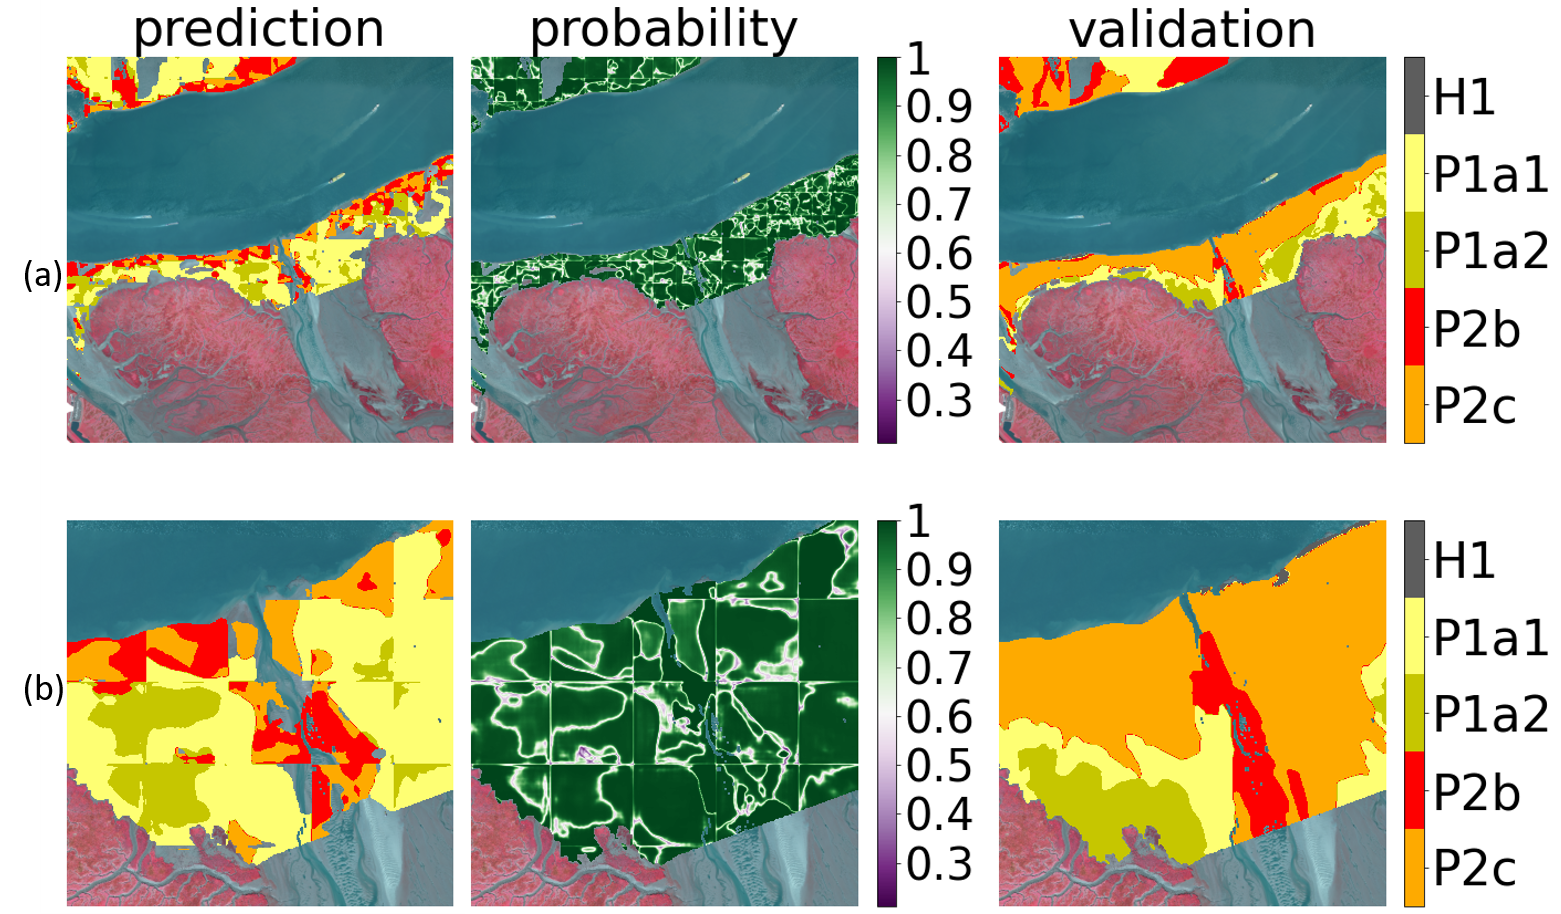
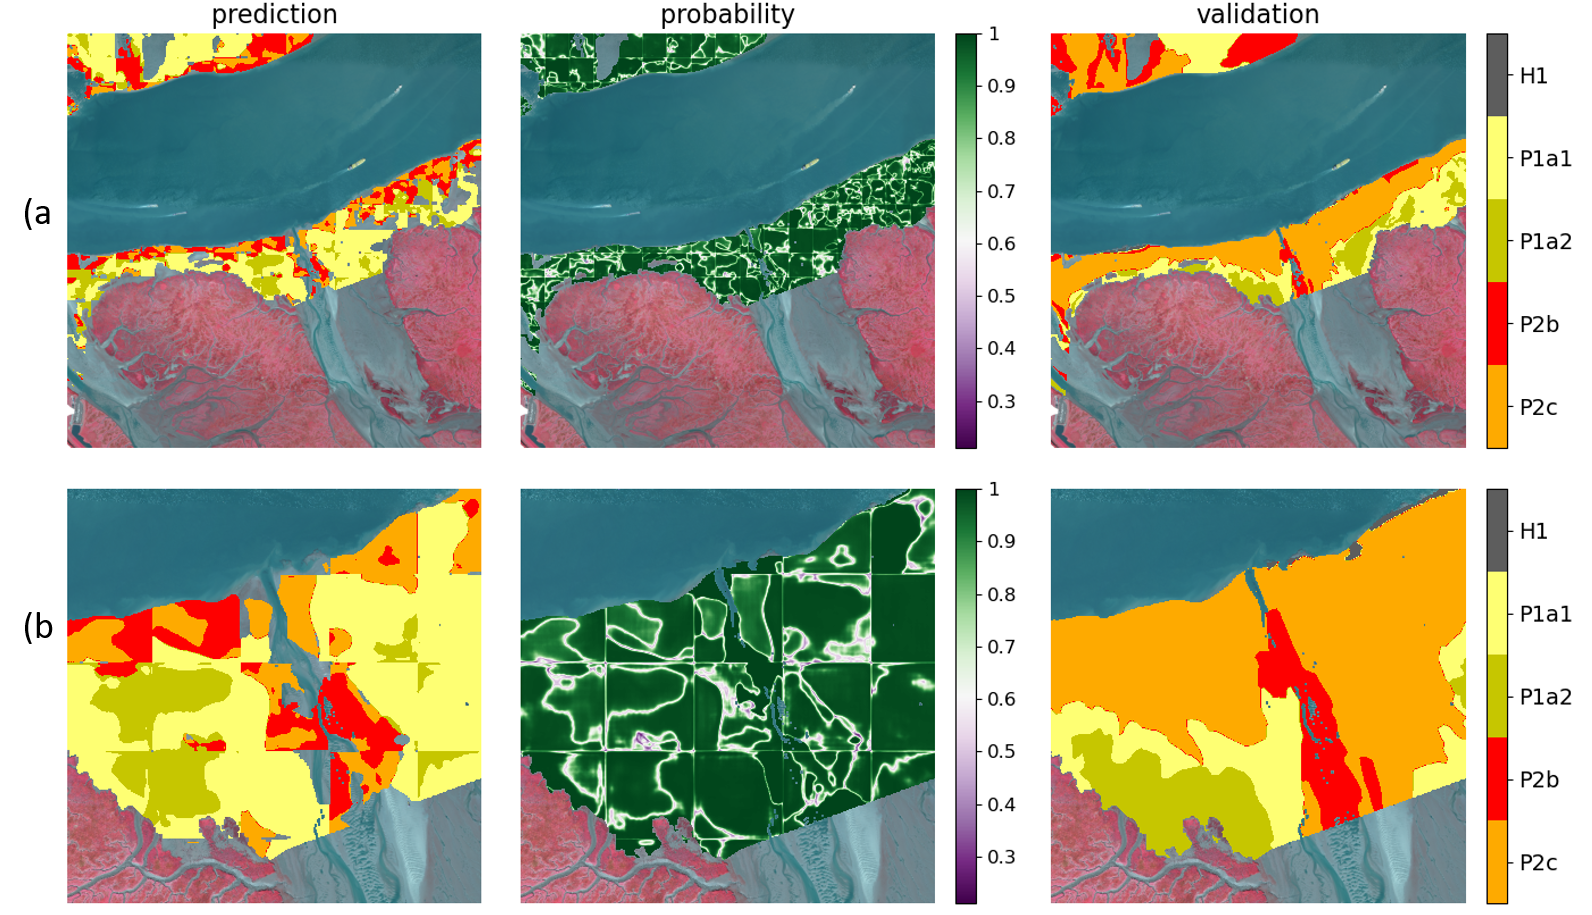
final

diff --git a/isprs.tex b/isprs.tex
@@ -166,7 +166,7 @@ We found no considerable differences in the optimal spatial unit for each class 
 
 The hyperparameters we tuned for XGBoost are learning rate, maximun tree-depth, number of estimators, and the Lasso regularisation term $\alpha$, using 5-fold cross-validation. The modeling process using XGBoost and deep neural networks is implemented in the Python environment (version 3.6). 
 
-\subsection{Method-based on U-net}
+\subsection{Method based on U-net}
 
 The input for the U-net is the aerial imagery, DEM, and derived slope \citep{horn1981hill}, NDVI, and  Brightness layers. The slope was calculated in QGIS3.18 using the same Horn's formula \citep{horn1981hill} as in eCognition, and is expressed in degrees. The NDVI and brightness are calculated in Python. The Brightness is defined as $Brightness =  (NIR+red+green)/3$.
  
@@ -196,7 +196,7 @@ The loss functions we tested are categorical cross-entropy loss, IoU loss \citep
 \subsubsection{Method OBIA-XGB}
 The accuracy metrics of the OBIA-XGB are shown in \cref{xgb_ss,xgb_ssac}. SSAC is used to indicate the performance and SS for indicating how well the smaller objects are classified. According to SSAC, the megaripple class obtained the highest precision, indicating the method OBIA-XGB is already promising in distinguishing it from other P classes and the H1 class. The sandy and silty low dynamic flats are not well separated. 
 
-Comparing \cref{xgb_ss,xgb_ssac}, it is observed that small objects better in the P2b and H1 classes but are less satisfying in other classes. From the spatial prediction maps, We can observe that mis-classification mostly occur as classifying P1a1, P1a2 and P2b as H1, especially along some channel outlets or close to water.
+Comparing \cref{xgb_ss,xgb_ssac}, it is observed that small objects better in the P2b and H1 classes but are less satisfying in other classes. From the spatial prediction maps, We can observe that mis-classification mostly occur as classifying P1a1, P1a2 and P2b as H1, especially along some channel outlets or close to water; and mis-classify P1a1 into P1a2 or p2b. The probability map also shows a high uncertainty (indicated as low probability) in separating between P1a1 and P1a2, as well as H1 and other classes.   
 
 %\subsection{Variable importance}
 %The top-5 most important characteristics (calculated from XGBoost gain) describe spectral properties, the 7th on the texture within the object, and 10th is based on the sub-objects.
@@ -217,9 +217,8 @@ overall accuracy &  46.1 &       &      &      &     \\
 \bottomrule
 \end{tabular}
 
-\caption{Accuracy assessed with the sampling and validation scheme SSAC, on test tiles. Confusion matrix is normalised by the entire area. Precision, recall, and overall accuracy (\%) are calculated using area-weighted accuracy assessment. }
-
-    \label{xgb_ssac}
+\caption{Accuracy assessed with the sampling and validation scheme SSAC, on test tiles. Confusion matrix is normalised by the entire area. Precision, recall, and overall accuracy (\%) are calculated using area-weighted accuracy assessment.}
+\label{xgb_ssac}
 \end{table}
 
 \begin{table}[]
@@ -246,14 +245,14 @@ overall accuracy &  50.8 &       &      &      &      \\
 
  \begin{figure}[!h]
     \centering
-    \includegraphics[width=\linewidth]{figures/prediction_westerscheldt_merged.png}
+    \includegraphics[width=\linewidth]{figures/xgb_prediction_westerscheldt.png}
     \caption{Maps of method OBIA-XGB. Figure (b) is a zoom-in of the figure (a).}
     \label{fig:spxgb}
 \end{figure}
 
 \subsubsection{Method based on U-net}
 
-The U-net segmentation obtained a considerably lower accuracy for P2b and P2c compared to the method OBIA-XGB (\cref{xgb_ssac,deepconf}) but obtained a much better result for P1a1. P2b again obtained the best result compared to the other classes. The model failed completely to predict the H1 class.  
+The U-net segmentation obtained a considerably lower accuracy for P2b and P2c compared to the method OBIA-XGB (\cref{xgb_ssac,deepconf}) but obtained a much better result for P1a1. P2b again obtained the best result compared to the other classes but is often confused with P1a1. The model failed completely to predict the H1 class.  
 
  \begin{table}
   \centering
@@ -274,42 +273,21 @@ overall accuracy &  45.0 &       &       &       &      \\
 \bottomrule
 \end{tabular}
 \caption{
-Confusion matrix normalised by the number of total objects, precision, recall, and overall accuracy (\%) of the U-net model.}
+Confusion matrix normalised by the number of pixels, precision, recall, and overall accuracy (\%) of the U-net model.}
 \label{deepconf}
 \end{table}
 
 \begin{figure}
     \centering
-    \includegraphics[scale=0.2]{figures/prediction_westerscheldt_merged.png}
-    \caption{Example of predictions from the best U-net model for Western Scheldt. A, Upper row: the prediction and the validation (i.e. reference) maps. Bottom row: the probability of the predictions and the false-color image. B, a closer look at the predictions. }
+    \includegraphics[scale=0.3]{figures/prediction_westerscheldt_merged.png}
+    \caption{Map of the best U-net model. Figure (b) is a zoom-in of the figure (a).}
     \label{fig:deepsp}
 \end{figure}
 
 
-\begin{table}[]
-    \centering
-\begin{tabular}{lrrrrr}
-\toprule
-{} &  P1a1 &  P1a2 &  P2b &  P2c &   H1 \\
-\midrule
-P1a1             &  13.9 &   0.8 &  1.2 &  6.8 &  0.6 \\
-P1a2             &   3.8 &  11.6 &  1.3 &  1.9 &  0.9 \\
-P2b              &   8.0 &   6.4 & 15.5 &  5.1 &  2.6 \\
-P2c              &   2.0 &   0.6 &  1.0 & 14.6 &  0.9 \\
-H1               &   0.0 &   0.0 &  0.0 &  0.0 &  0.2 \\
-precision        &  50.1 &  59.8 & 81.3 & 51.4 &  4.5 \\
-recall           &  59.7 &  59.1 & 41.2 & 76.6 & 82.7 \\
-overall accuracy &  55.9 &       &      &      &      \\
-\bottomrule
-\end{tabular}
-    \caption{SSAC prediction accuracy of the OBIA-XGB method on the test tiles using in the U-net method. }
-    \label{tab:xgb_unettile}
-\end{table}
- 
- 
 \section{Conclusion}
 
-In this study, we compared machine learning methods that are based on OBIA-derived features vs. end-to-end representative learning, for inter-tidal area classification, with respectively XGBoost and U-net. The method that applies XGBoost to OBIA-derived features (OBIA-XGB) outperforms the U-net based methods in P2b and P2c, but the U-net method can better separate between P1a1 and P1a2. The OBIA-XGB obtained satisfying results in separating between the P2b and other classes, which is sometimes more difficult to distinct manually or basing on the rule-based OBIA methods alone. Therefore, our study indicates that machine learning methods can help to improve the rule-based OBIA method. Future studies aim at further improvement of deep learning-based method.
+In this study, we compared machine learning methods that are based on OBIA-derived features vs. end-to-end representative learning, for inter-tidal area classification, with respectively XGBoost and U-net. The method that applies XGBoost to OBIA-derived features (OBIA-XGB) outperforms the U-net based methods in P2b and P2c, but the U-net method can better separate between P1a1 and P1a2. The OBIA-XGB obtained satisfying results in separating between the P2b and other classes, which is sometimes more difficult to distinct manually or basing on the rule-based OBIA methods alone. Therefore, our study indicates that machine learning methods can help to improve the rule-based OBIA method. Future studies aim at improve over the basic U-net method we applied in this study. 
 
 %by using channel attentions, multi-scale approaches, and generative modeling. We also aim at a integration of OBIA and deep learning-based method to combine prior knowledge into machine learning techniques. Our two geomorphologically distinct study areas provide us unique opportunities to gain an in-depth insight of model generality.
 
@@ -336,3 +314,26 @@ This study was performed at Utrecht University with a contribution from the proj
     \caption{Result of method A for distinguishing between mega-ripples and other classes. A: ground truth, B: predicted labels, C: prediction (in probability).}
     \label{fig:p2b}
 \end{figure}
+
+
+\begin{table}[]
+    \centering
+\begin{tabular}{lrrrrr}
+\toprule
+{} &  P1a1 &  P1a2 &  P2b &  P2c &   H1 \\
+\midrule
+P1a1             &  13.9 &   0.8 &  1.2 &  6.8 &  0.6 \\
+P1a2             &   3.8 &  11.6 &  1.3 &  1.9 &  0.9 \\
+P2b              &   8.0 &   6.4 & 15.5 &  5.1 &  2.6 \\
+P2c              &   2.0 &   0.6 &  1.0 & 14.6 &  0.9 \\
+H1               &   0.0 &   0.0 &  0.0 &  0.0 &  0.2 \\
+precision        &  50.1 &  59.8 & 81.3 & 51.4 &  4.5 \\
+recall           &  59.7 &  59.1 & 41.2 & 76.6 & 82.7 \\
+overall accuracy &  55.9 &       &      &      &      \\
+\bottomrule
+\end{tabular}
+    \caption{SSAC prediction accuracy of the OBIA-XGB method on the test tiles using in the U-net method. }
+    \label{tab:xgb_unettile}
+\end{table}
+ 
+ 
